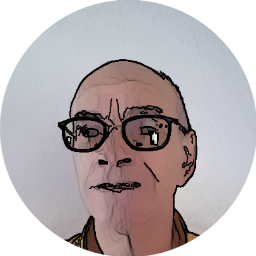
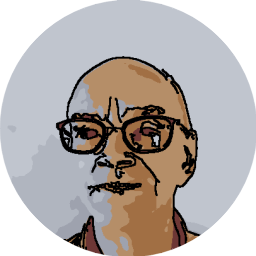
Teken de ploeg in inktstijl en vul bewaarde ploegen aan

diff --git a/src/opslag/opslag.test.ts b/src/opslag/opslag.test.ts
@@ -72,6 +72,22 @@ describe('ploeg', () => {
     expect(laadPloeg(opslag)).toEqual(ploeg)
   })
 
+  it('vult de avatar aan bij een ploeg die van voor de fotos komt', () => {
+    opslag.setItem('wiezen.ploeg', JSON.stringify([{ id: 'gert', naam: 'Gert' }]))
+    expect(laadPloeg(opslag)).toEqual([{ id: 'gert', naam: 'Gert', avatar: 'gert.webp' }])
+  })
+
+  it('laat een zelf gekozen avatar staan', () => {
+    const eigen = [{ id: 'gert', naam: 'Gert', avatar: 'eigen.webp' }]
+    opslag.setItem('wiezen.ploeg', JSON.stringify(eigen))
+    expect(laadPloeg(opslag)).toEqual(eigen)
+  })
+
+  it('laat een lid zonder standaardavatar met rust', () => {
+    opslag.setItem('wiezen.ploeg', JSON.stringify([{ id: 'zus', naam: 'Zus' }]))
+    expect(laadPloeg(opslag)).toEqual([{ id: 'zus', naam: 'Zus' }])
+  })
+
   it('valt terug op de standaardploeg bij een lege lijst', () => {
     opslag.setItem('wiezen.ploeg', '[]')
     expect(laadPloeg(opslag)).toEqual(STANDAARD_PLOEG)

diff --git a/src/opslag/opslag.ts b/src/opslag/opslag.ts
@@ -34,9 +34,14 @@ function schrijf(opslag: Storage, sleutel: string, waarde: unknown): void {
   opslag.setItem(sleutel, JSON.stringify(waarde))
 }
 
+/** Een bewaarde ploeg kan ouder zijn dan de avatars, dus ontbrekende foto's per lid aanvullen. */
 export function laadPloeg(opslag: Storage): Ploeglid[] {
-  const ploeg = lees<Ploeglid[]>(opslag, SLEUTELS.ploeg)
-  return Array.isArray(ploeg) && ploeg.length > 0 ? ploeg : STANDAARD_PLOEG
+  const bewaard = lees<Ploeglid[]>(opslag, SLEUTELS.ploeg)
+  if (!Array.isArray(bewaard) || bewaard.length === 0) return STANDAARD_PLOEG
+  return bewaard.map((lid) => {
+    const standaard = STANDAARD_PLOEG.find((s) => s.id === lid.id)
+    return lid.avatar || !standaard?.avatar ? lid : { ...lid, avatar: standaard.avatar }
+  })
 }
 
 export function bewaarPloeg(opslag: Storage, ploeg: Ploeglid[]): void {

diff --git a/src/domein/ploeg.ts b/src/domein/ploeg.ts
@@ -9,7 +9,7 @@ export type Ploeglid = {
 
 export const STANDAARD_PLOEG: Ploeglid[] = [
   { id: 'wouter', naam: 'Wouter', avatar: 'wouter.webp' },
-  { id: 'gert', naam: 'Gert' },
+  { id: 'gert', naam: 'Gert', avatar: 'gert.webp' },
   { id: 'moe', naam: 'Moe', avatar: 'lieve.webp' },
   { id: 'va', naam: 'Va', avatar: 'guido.webp' },
   { id: 'zus', naam: 'Zus' },

diff --git a/scripts/avatars.py b/scripts/avatars.py
@@ -296,7 +296,7 @@ def main() -> int:
     parser = argparse.ArgumentParser(description=__doc__)
     parser.add_argument("fotos", nargs="+", type=Path)
     parser.add_argument("--uit", type=Path, default=UITVOER)
-    parser.add_argument("--stijl", choices=sorted(STIJLEN), default="penseel")
+    parser.add_argument("--stijl", choices=sorted(STIJLEN), default="inkt")
     parser.add_argument(
         "--overdrijving", type=float, default=1.0, help="schaalt alle kenmerken tegelijk"
     )

diff --git a/README.md b/README.md
@@ -93,24 +93,26 @@ kleurvlakken met zwarte lijnen, en snijdt er een ronde WebP uit.
 ```bash
 python3 -m venv .venv
 .venv/bin/python -m pip install mediapipe opencv-python-headless
-.venv/bin/python scripts/avatars.py ~/fotos/*.jpg
+.venv/bin/python scripts/avatars.py players-raw/*.jpg
 ```
 
 De uitvoer belandt in `public/spelers/` als `<naam>.webp`, 256 px en rond uitgesneden. Zet die
 bestandsnaam in het `avatar`-veld van het ploeglid; ontbreekt hij of laadt hij niet, dan toont de
 app de initialen.
 
-| Knop        | Standaard | Doet                |
-| ----------- | --------- | ------------------- |
-| `--ogen`    | 1.35      | ogen vergroten      |
-| `--neus`    | 1.30      | neus vergroten      |
-| `--mond`    | 1.15      | mond vergroten      |
-| `--kin`     | 1.12      | kin verlengen       |
-| `--schedel` | 1.10      | schedel verbreden   |
-| `--lijnen`  | 0.85      | zwartheid contouren |
+| Knop             | Standaard | Doet                                                     |
+| ---------------- | --------- | -------------------------------------------------------- |
+| `--stijl`        | `inkt`    | `inkt`, `penseel`, `waterverf`, `potlood`, `pentekening` |
+| `--overdrijving` | 1.0       | schaalt alle kenmerken tegelijk                          |
+| `--proefblad`    | —         | alle stijlen naast elkaar in één PNG                     |
+| `--ogen`         | 1.45      | ogen vergroten                                           |
+| `--neus`         | 1.40      | neus vergroten                                           |
+| `--mond`         | 1.20      | mond vergroten                                           |
+| `--kin`          | 1.20      | kin verlengen                                            |
+| `--schedel`      | 1.25      | schedel verbreden                                        |
 
-1.0 zet een kenmerk uit. Per persoon bijstellen loont: een karikatuur werkt pas wanneer je
-overdrijft wat al opvalt.
+1.0 zet een kenmerk uit. Voorbij `--overdrijving 2.6` gaan de trekken schuiven en wordt het
+vervorming in plaats van overdrijving.
 
 ## Opslag
 
